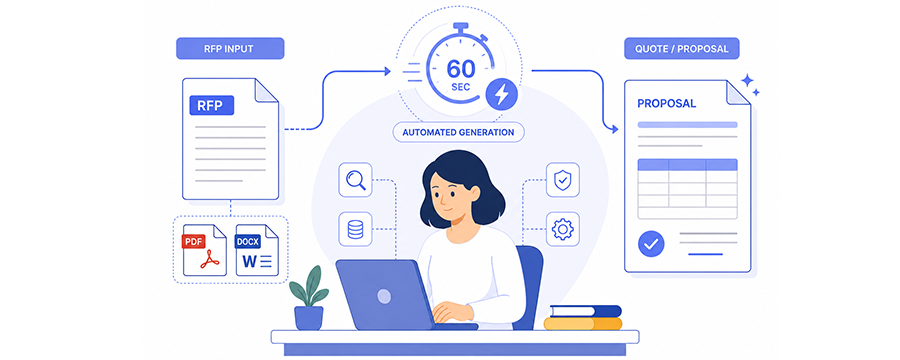
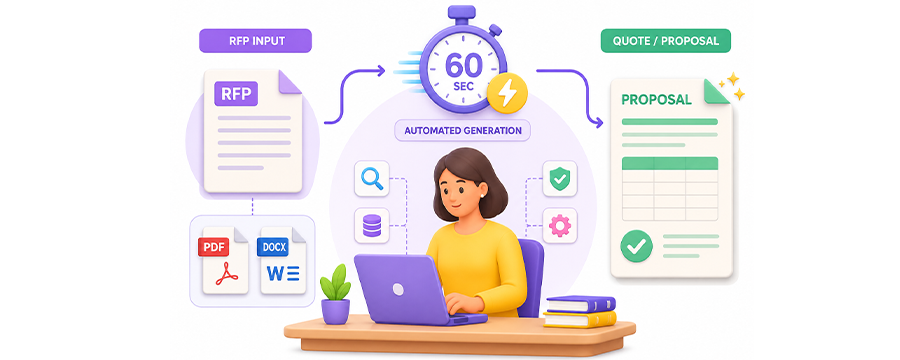
updated

diff --git a/src/components/illustrations/CaseStudyArt.tsx b/src/components/illustrations/CaseStudyArt.tsx
@@ -2,7 +2,7 @@ import industrialImg from "@/assets/images/hero-section/case-study/industrial.pn
 import fintechImg from "@/assets/images/hero-section/case-study/fintech-lending.png";
 import healthtechImg from "@/assets/images/hero-section/case-study/healthtech.png";
 import rouseImg       from "@/assets/images/case-study/images/Rouse Navigator.jpg.png";
-import fintechCardImg from "@/assets/images/case-study/images/FinTech Risk Analyzer.jpg.png";
+import fintechCardImg from "@/assets/images/case-study/images/FinTech Risk Analyzer.jpg.jpeg";
 import healthCardImg  from "@/assets/images/case-study/images/Health Clinic AI Assistant.jpg.jpeg";
 import logisticsImg   from "@/assets/images/case-study/images/Logistics Ops Dashboard.jpg.jpeg";
 import stridePulseImg from "@/assets/images/case-study/images/StridePulse.jpg.jpeg";

diff --git a/src/routes/case-studies.tsx b/src/routes/case-studies.tsx
@@ -11,7 +11,7 @@ import {
 } from "@/lib/sanity";
 import { caseStudies as fallbackCases } from "@/data/caseStudies";
 import rouseNavigatorImg    from "@/assets/images/case-study/images/Rouse Navigator.jpg.png";
-import fintechImg           from "@/assets/images/case-study/images/FinTech Risk Analyzer.jpg.png";
+import fintechImg           from "@/assets/images/case-study/images/FinTech Risk Analyzer.jpg.jpeg";
 import healthClinicImg      from "@/assets/images/case-study/images/Health Clinic AI Assistant.jpg.jpeg";
 import logisticsImg         from "@/assets/images/case-study/images/Logistics Ops Dashboard.jpg.jpeg";
 import stridePulseImg       from "@/assets/images/case-study/images/StridePulse.jpg.jpeg";
